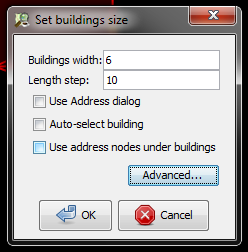
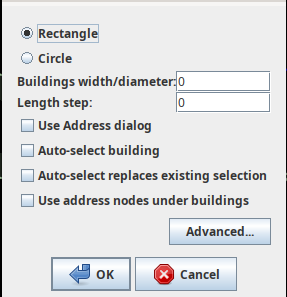
fixes suggested by Transifex user lecalam

diff --git a/_posts/en/1900-09-15-josm-more-plugins_en.md b/_posts/en/1900-09-15-josm-more-plugins_en.md
@@ -58,7 +58,7 @@ You can also create more complicated buildings by first drawing several overlapp
 
 Furthermore, you can alter the default settings of the plugin.  
 
-* Go to Data->Set buildings size. ![Set buildings size][]{: height="39px"}  
+* Go to "More tools"->"Draw buildings modes"->Set buildings size.
 
 * If you are creating many similarly sized buildings, you can set specific width and height dimensions of the buildings, such as 6 x 10 meters (the unit is in meters).  
 
@@ -88,7 +88,7 @@ Create a new layer and experiment with some of the new tools. Here we describe s
 
     ![Nodes interesection][]
 
-2. **Copy Tags from Previous Selection:**  This function makes copying tags easier.  If you want to create many objects with the same tags, first draw the objects.  Then add the tags to one object.  Click on another object and press Shift + R to copy the tags from the previously selected object.  You can do this for all objects that you want to tag.  Remember that the tags will be copied from the previously selected object, so if you click on an untagged object and then another untagged object, you will not be able to copy any tags.  
+2. **Paste Tags from Previous Selection:**  This function makes copying tags easier.  If you want to create many objects with the same tags, first draw the objects.  Then add the tags to one object.  Click on another object and press Shift + R to copy the tags from the previously selected object.  You can do this for all objects that you want to tag.  Remember that the tags will be copied from the previously selected object, so if you click on an untagged object and then another untagged object, you will not be able to copy any tags.  
 
     ![Copy tags][]
 

diff --git a/_posts/en/1900-12-18-more-about-josm_en.md b/_posts/en/1900-12-18-more-about-josm_en.md
@@ -29,7 +29,7 @@ Downloading OSM Data
 --------------------
 The first editing step is to download the data for the area of the world that we want to improve. Remember that you need to do this every time that you want to make changes to the map, because the map is often being updated by other users.
 
--   Click on “File” in the top left corner of JOSM and click “Download from OSM”. This will open up the download window. You can access this window more simply by clicking on the download button, shown here:
+-   Click on “File” in the top left corner of JOSM and click “Download data...”. This will open up the download window. You can access this window more simply by clicking on the download button, shown here:
 
 ![JOSM Download Button][]
 

diff --git a/_posts/en/1900-11-15-josm-tools_en.md b/_posts/en/1900-11-15-josm-tools_en.md
@@ -64,7 +64,7 @@ If you are combining roads that have different directions, you might get this wa
 
 ![Reverse and combine][]
 
-If the roads are connected and go in the same direction, then choose "Reverse and Continue."
+If the roads are connected and go in the same direction, then choose "Reverse and Combine."
 
 
 ### Reverse Way
